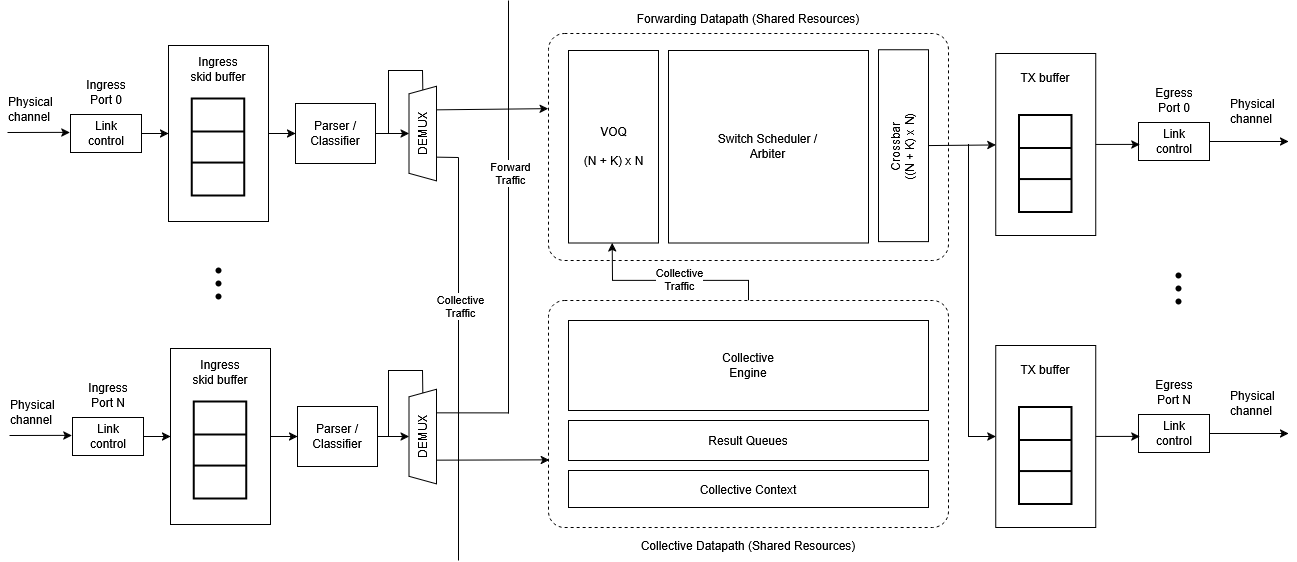
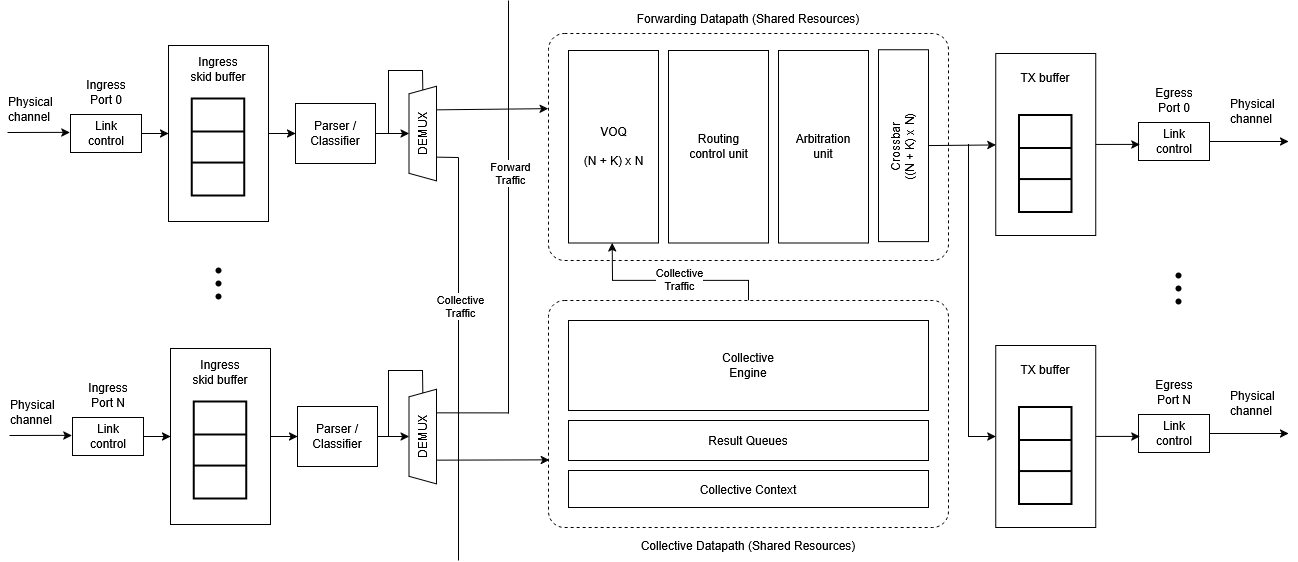
architecture introduction

diff --git a/docs/chapters/3-architecture/2.pipeline.md b/docs/chapters/3-architecture/2.pipeline.md
@@ -1,2 +1,29 @@
 # 3.2 Pipeline
 
+The switch microarchitecture can be enhanced by pipelining the operations. Network switches in that term have similarities with pipelined execution of instructions in a CPU, a single packet header indicates how to process all of the internal data path physical transfer units of a packet. Moreover, packets at different input ports are independently processed, they can be handled in parallel similar to the way multiple independent instructions are executed in parallel.
+
+The central challenge in PRISM is to sustain line-rate operation while safely coordinating two distinct datapaths. The pipeline must resolve resource contention, prevent structural and data hazards, preserve packet ordering where required, and propagate backpressure without causing state corruption or deadlock. These requirements become particularly important when ordinary forwarding traffic and collective-operation traffic converge on shared buffering, arbitration, and egress resources.
+
+> This section first introduces a conventional cut-through switch pipeline as a reference model. It then extends that model to incorporate PRISM’s forwarding and collective-processing paths, highlighting the additional control, buffering, arbitration, and flow-control mechanisms required by the resulting architecture.
+
+# 3.2.1 Basic Pipeline
+
+<figure markdown="span">
+  ![Basic Switch Pipeline Overview](../../assets/images/architecture/basic-pipeline.png){ loading=lazy }
+  <!-- <figcaption>Basic Switch Pipeline</figcaption> -->
+</figure>
+
+Consider a conventional cut-through switch microarchitecture in which packet forwarding decisions are derived from a forwarding table. In the first pipeline stage, the switch receives and parses the packet header to extract the destination address and any other fields required for forwarding. During the second stage, this information is used to query the forwarding table and determine the set of eligible egress ports. Meanwhile, the remaining packet flits continue to arrive and are temporarily stored in the ingress queue.
+
+In the third stage, the packet participates in arbitration for access to the selected output port. Once the request is granted, the fourth stage configures the crossbar to establish a temporary connection between the corresponding ingress and egress ports. In the fifth stage, the packet header reaches the output-side buffer and becomes available for transmission over the external link.
+
+Only the packet header traverses the forwarding-lookup and arbitration stages, because these stages are responsible for establishing the packet’s internal route. After the forwarding decision has been made and the crossbar connection has been configured, the payload and trailer bypass these control-processing stages. They therefore traverse only the three stages directly involved in data movement: ingress reception and buffering, crossbar transfer, and egress buffering or transmission.
+
+# 3.2.2 Introducing Virtual Output Queues
+A virtual channel switch usually requires an additional stage for virtual channel allocation. Moreover, arbitration is required for every beat before transmission through the crossbar. Finally, depending on the complexity of the routing and
+arbitration algorithms, several clock cycles may be required for these operations.
+
+!!! info "Why Virtual Output Queues?"
+    VOQs separate packets by destination egress, preventing a blocked output from delaying traffic destined for available ports. They also provide a clean, scalable interface through which forwarded and PRISM-injected packets can share the same buffering and scheduling infrastructure while remaining independently arbitrated.
+
+todo
